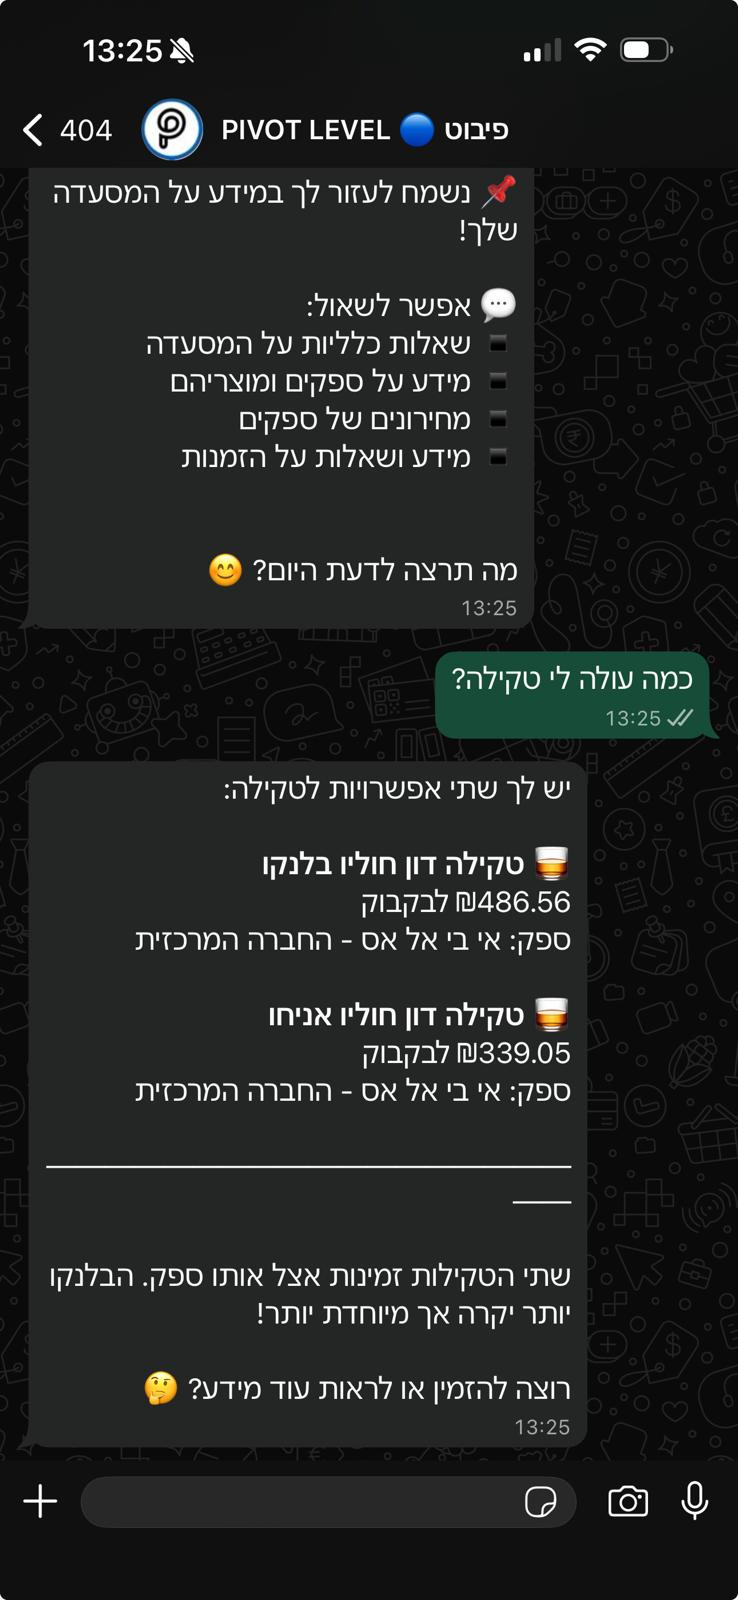
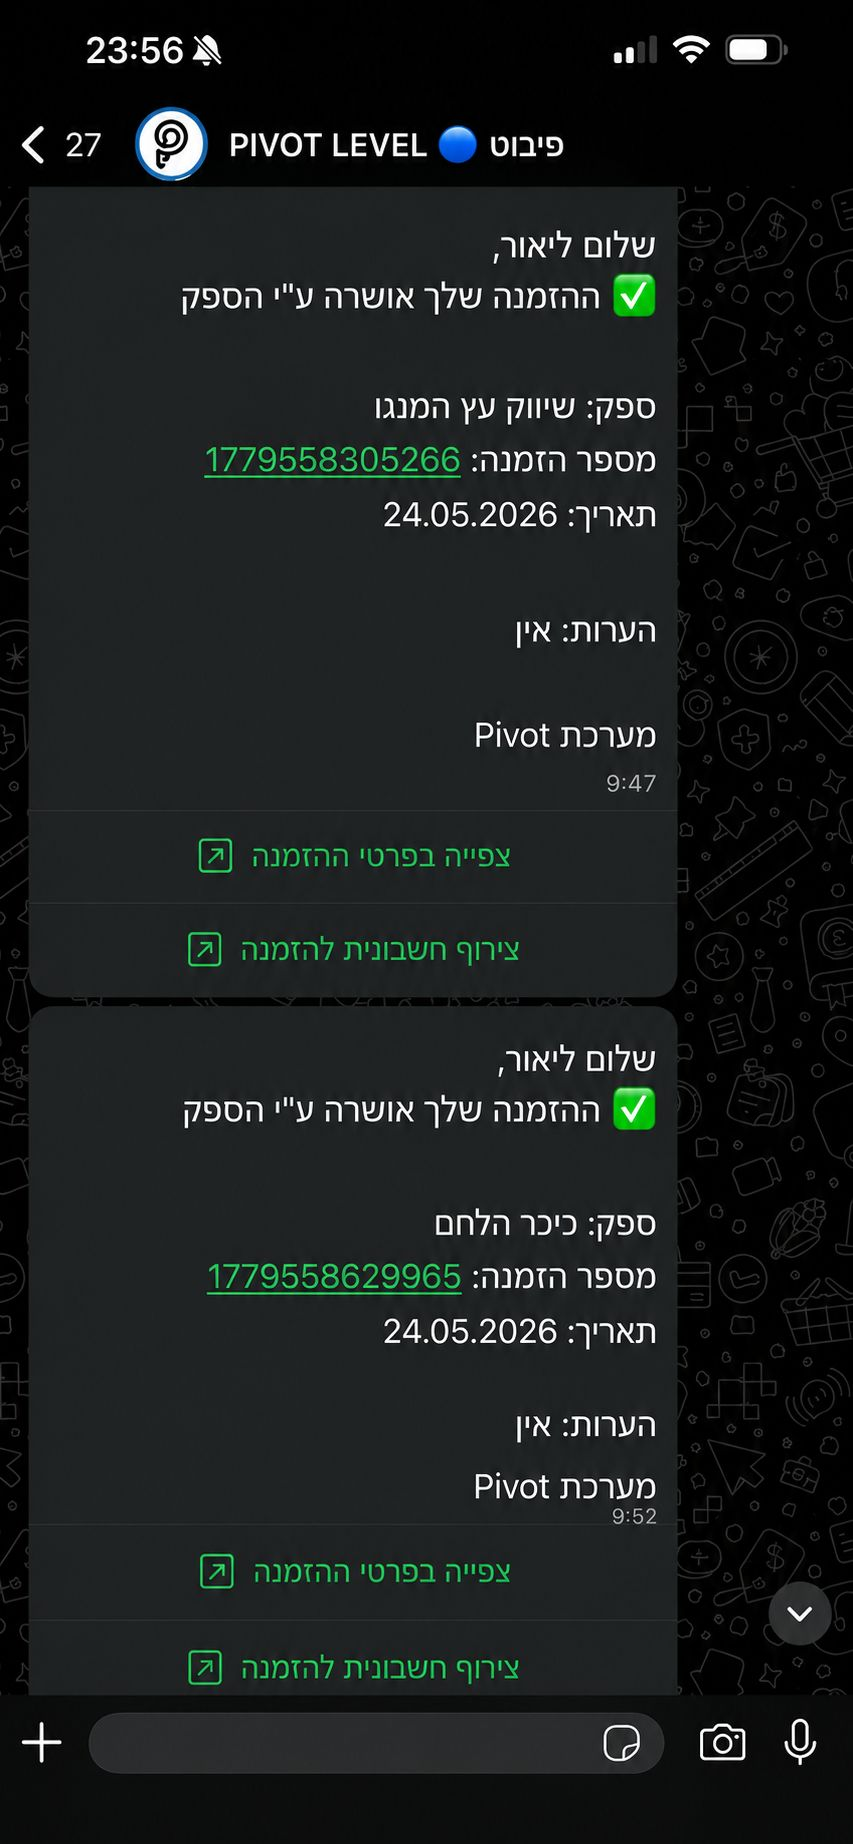
Manifesto 'שקט מתועד' screenshot + reframe 22-hours stat
- Replace manifesto card 3 screenshot with order-confirmation image
- Reframe Advantages '22 שעות' stat as hours SAVED (orders/management/
  counting) plus the cost of mistakes when not using Pivot

diff --git a/src/Landing.jsx b/src/Landing.jsx
@@ -1530,7 +1530,7 @@ function Advantages() {
     { n: '02:30', unit: 'שעות / יום', title: 'חוסך זמן', body: 'במקום לרדוף אחרי 30 ספקים בוואטסאפ.' },
     { n: '90%', unit: 'פחות', title: 'מפחית טעויות', body: 'אישור כפול, מחירונים, ובדיקת כמויות אוטומטית.' },
     { n: '00:00', unit: 'דקות', title: 'בלי לימוד', body: 'המסעדה כבר בוואטסאפ. פיבוט יושב בדיוק שם.' },
-    { n: '22', unit: 'שעות / חודש', title: 'שימוש ממוצע', body: 'זה כל מה שמסעדה ממוצעת מבלה במערכת — כי הכל מתנהל ישירות בוואטסאפ, בלי מעברים בין אפליקציות.' },
+    { n: '22', unit: 'שעות / חודש', title: 'שעות שנחסכות', body: 'הזמן שמתפנה מהתעסקות בהזמנות, ניהול וספירה. ומעבר לכך — כל שעה שהמלאי לא מנוהל בפיבוט מצטברות טעויות שעולות למסעדה זמן וכסף.' },
   ];
   return (
     <section style={{ background: '#000', color: '#fff', padding: 'clamp(64px, 9vw, 120px) clamp(20px, 5vw, 80px)', position: 'relative', overflow: 'hidden' }}>
